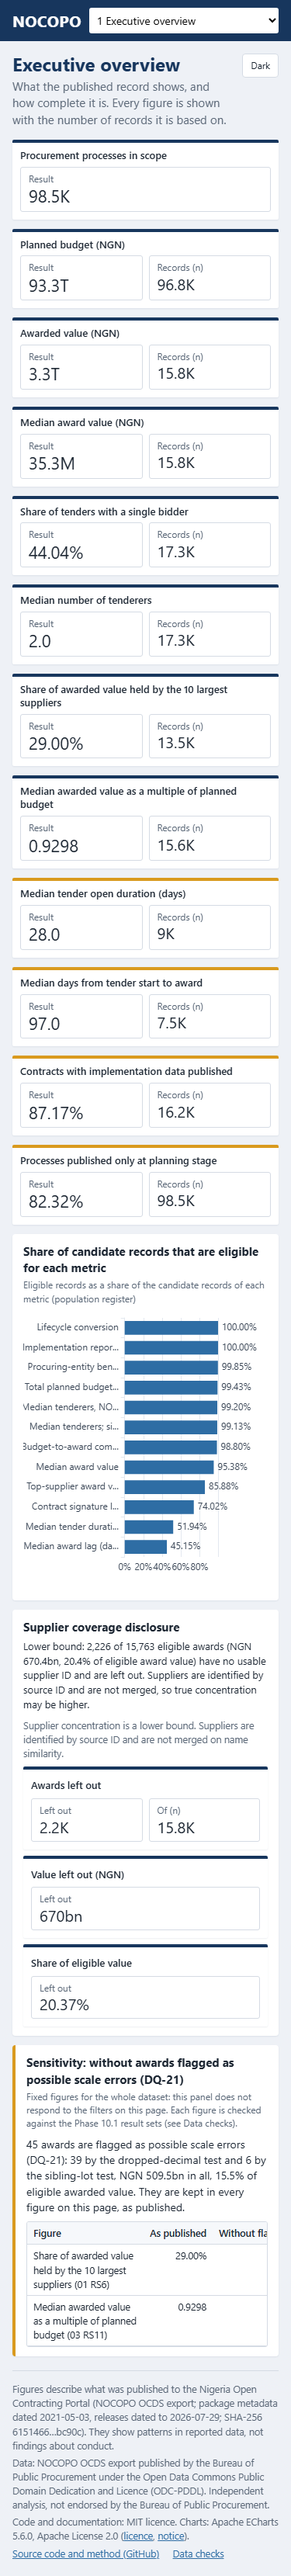
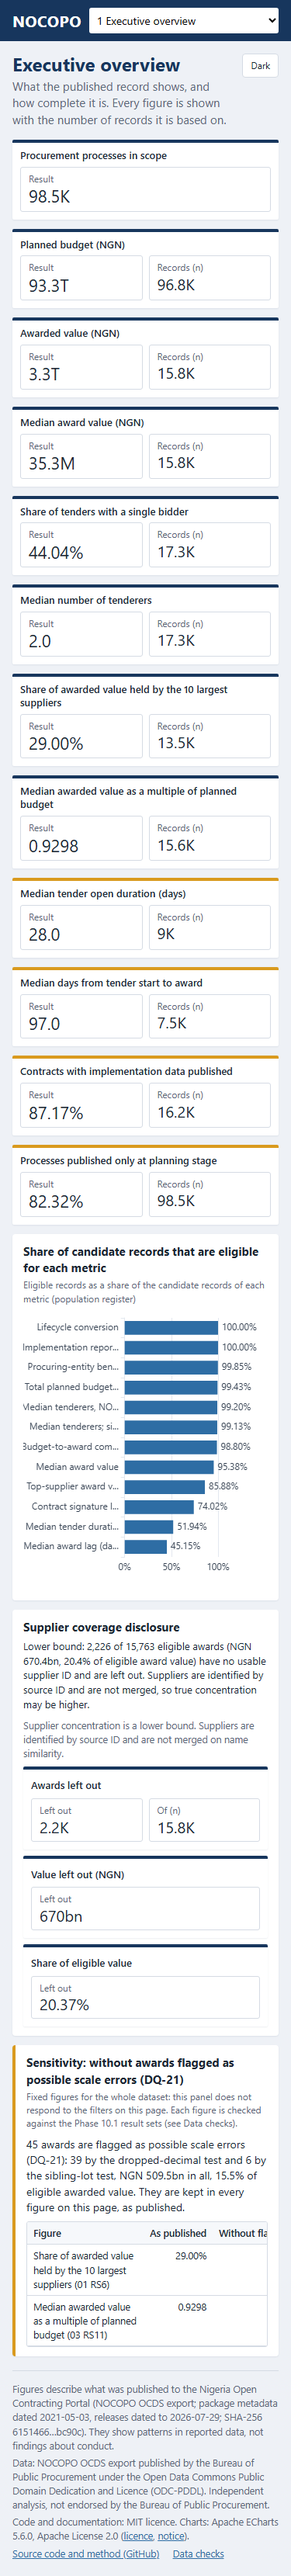
fix(web): readable chart axes on phones; docs: live dashboard link

diff --git a/web/js/charts.js b/web/js/charts.js
@@ -50,7 +50,8 @@ export function hbar(el, label, categories, values, fmt, { max = null, tooltip =
   const narrow = el.clientWidth < 520;
   return chart(el, (t) => ({
     grid: { left: 8, right: 64, top: 8, bottom: 24, containLabel: true },
-    xAxis: { type: 'value', max, ...axisCommon(t), axisLabel: { color: t.text, formatter: (v) => fmt(v, true) } },
+    xAxis: { type: 'value', max, ...axisCommon(t), splitNumber: narrow ? 2 : 5,
+      axisLabel: { color: t.text, formatter: (v) => fmt(v, true), hideOverlap: true } },
     yAxis: { type: 'category', inverse: true, data: categories, ...axisCommon(t),
       axisLabel: { color: t.text, width: narrow ? 130 : 260, overflow: 'truncate' } },
     tooltip: { trigger: 'item', renderMode: 'richText', backgroundColor: t.surface, borderColor: t.grid, textStyle: { color: t.fg },
@@ -67,7 +68,8 @@ export function columns(el, label, categories, values, fmt, { tooltip = null } =
     grid: { left: 8, right: 8, top: 24, bottom: 8, containLabel: true },
     xAxis: { type: 'category', data: categories, ...axisCommon(t),
       axisLabel: { color: t.text, interval: 0, width: slot, overflow: 'break', fontSize: 11, lineHeight: 13 } },
-    yAxis: { type: 'value', ...axisCommon(t), axisLabel: { color: t.text, formatter: (v) => fmt(v, true) } },
+    yAxis: { type: 'value', ...axisCommon(t), splitNumber: el.clientWidth < 520 ? 3 : 5,
+      axisLabel: { color: t.text, formatter: (v) => fmt(v, true), hideOverlap: true } },
     tooltip: { trigger: 'item', renderMode: 'richText', backgroundColor: t.surface, borderColor: t.grid, textStyle: { color: t.fg },
       formatter: (p) => tooltip ? tooltip(p.dataIndex) : `${p.name}\n${fmt(p.value)}` },
     series: [{ type: 'bar', data: values, itemStyle: { color: t.bar }, barMaxWidth: 48,
@@ -79,8 +81,8 @@ export function columns(el, label, categories, values, fmt, { tooltip = null } =
 export function line(el, label, xs, ys, ns, fmt) {
   return chart(el, (t) => ({
     grid: { left: 8, right: 16, top: 24, bottom: 8, containLabel: true },
-    xAxis: { type: 'category', data: xs.map(String), ...axisCommon(t) },
-    yAxis: { type: 'value', ...axisCommon(t) },
+    xAxis: { type: 'category', data: xs.map(String), ...axisCommon(t), axisLabel: { color: t.text, hideOverlap: true } },
+    yAxis: { type: 'value', ...axisCommon(t), splitNumber: el.clientWidth < 520 ? 3 : 5 },
     tooltip: { trigger: 'item', renderMode: 'richText', backgroundColor: t.surface, borderColor: t.grid, textStyle: { color: t.fg },
       formatter: (p) => `${p.name}: ${fmt(p.value)} (n = ${ns[p.dataIndex].toLocaleString('en')})` },
     series: [{ type: 'line', data: ys, itemStyle: { color: t.bar }, lineStyle: { color: t.bar, width: 2 }, symbolSize: 7,

diff --git a/docs/phase13_web_dashboard/web_dashboard.md b/docs/phase13_web_dashboard/web_dashboard.md
@@ -1,7 +1,8 @@
 # Web Dashboard
 # Nigeria Public Procurement Intelligence
 
-> **Phase:** 13 (release v1.1) · **Date:** 2026-10-22 · **Status:** built and verified locally; not yet deployed
+> **Phase:** 13 (release v1.1) · **Date:** 2026-10-22 · **Status:** deployed and verified live
+> **Live:** <https://nocopo-dashboard.vercel.app> · **Live check:** <https://nocopo-dashboard.vercel.app/check.html>
 > **Code:** [`web/`](../../web/) · **Data export and check:** [`python/web/`](../../python/web/) ·
 > **Design and decisions:** [`web_design_note.md`](web_design_note.md) · **Check results:** [`web_reconciliation_results.md`](web_reconciliation_results.md)
 
@@ -101,7 +102,17 @@ server already enforces it; the other headers in `web/vercel.json` apply only on
 
 ## 6. Deploying and redeploying (Vercel)
 
-The site is deployed from GitHub, with `web/` as the project root and no build step. First deployment:
+The site is deployed from GitHub, with `web/` as the project root and no build step. It is live at <https://nocopo-dashboard.vercel.app>.
+
+Deployment facts (as configured):
+
+- **Root directory:** `web`, set under **Settings → Build and Deployment**.
+- **Framework preset:** Other.
+- **Build Command** and **Install Command:** overridden, and both left empty.
+- **Output Directory:** left as it is (the root directory is served as is).
+- **If `web` is missing from the folder picker:** the import screen's picker can show a stale repository tree. Type `web` into the Root Directory field under **Settings → Build and Deployment** instead.
+
+First deployment:
 
 1. Push the repository to GitHub, so that `web/` is on the `main` branch.
 2. Go to <https://vercel.com>, choose **Sign Up** (or **Log In**) and then **Continue with GitHub**. When GitHub asks
@@ -122,7 +133,7 @@ The site is deployed from GitHub, with `web/` as the project root and no build s
    page under **Domains**), in the form `https://<project-name>.vercel.app`.
 7. Open the address and then `/check.html`: it must show "PASS: figures 177/177 …". In the browser's developer tools
    (Network, the document request) the response should carry the `Content-Security-Policy` header from `vercel.json`.
-8. Replace the placeholder after "Live dashboard" in the repository [`README.md`](../../README.md) with the address and commit.
+8. Put the address after "Live dashboard" in the repository [`README.md`](../../README.md) and commit (done: see above).
 
 Redeploying: every push to `main` deploys again automatically, so a data refresh is: rebuild the database,
 re-export (section 3), check, commit `web/data/` and push. Pushes to other branches create preview deployments only.

diff --git a/README.md b/README.md
@@ -47,9 +47,10 @@ The project does not make claims of misconduct or causation; patterns are prompt
 
 ## Dashboard
 
-**Live dashboard:** *link to be added after deployment.* An interactive web version of the eight report pages, a static
+**Live dashboard:** <https://nocopo-dashboard.vercel.app>. An interactive web version of the eight report pages, a static
 site in [`web/`](web/) that computes every figure in the browser from exported data and reconciles to the same 177
-figures ([web dashboard notes](docs/phase13_web_dashboard/web_dashboard.md)).
+figures ([web dashboard notes](docs/phase13_web_dashboard/web_dashboard.md)). The live reconciliation check is at
+<https://nocopo-dashboard.vercel.app/check.html>: it recomputes the 177 figures and the DQ-21 sensitivity cells in your browser and shows PASS or FAIL.
 
 Power BI report built on `analytics.*` only, through the read-only role `nocopo_bi`; 177 dashboard figures were
 reconciled to SQL and signed off page by page ([reconciliation log](dashboard/reconciliation_log.md)). The repository

diff --git a/docs/phase13_web_dashboard/web_reconciliation_results.md b/docs/phase13_web_dashboard/web_reconciliation_results.md
@@ -1,7 +1,7 @@
 # Web Dashboard Reconciliation Results
 # Nigeria Public Procurement Intelligence
 
-> **Generated:** 2026-10-22 12:57 by `python/web/check_web_data.py` (role `nocopo_bi`, read-only)  
+> **Generated:** 2026-10-22 13:36 by `python/web/check_web_data.py` (role `nocopo_bi`, read-only)  
 > **Data:** `web/data/` exported 2026-10-22T10:48:41Z by role `nocopo_bi` from `nocopo_db` (PostgreSQL 17.4); source SHA-256 `6151466…bc90c`  
 > **Result:** PASS: manifest verified; reconciliation 177/177 PASS; DQ-21 sensitivity 277/277 cells PASS; wording 0 finding(s)
 
